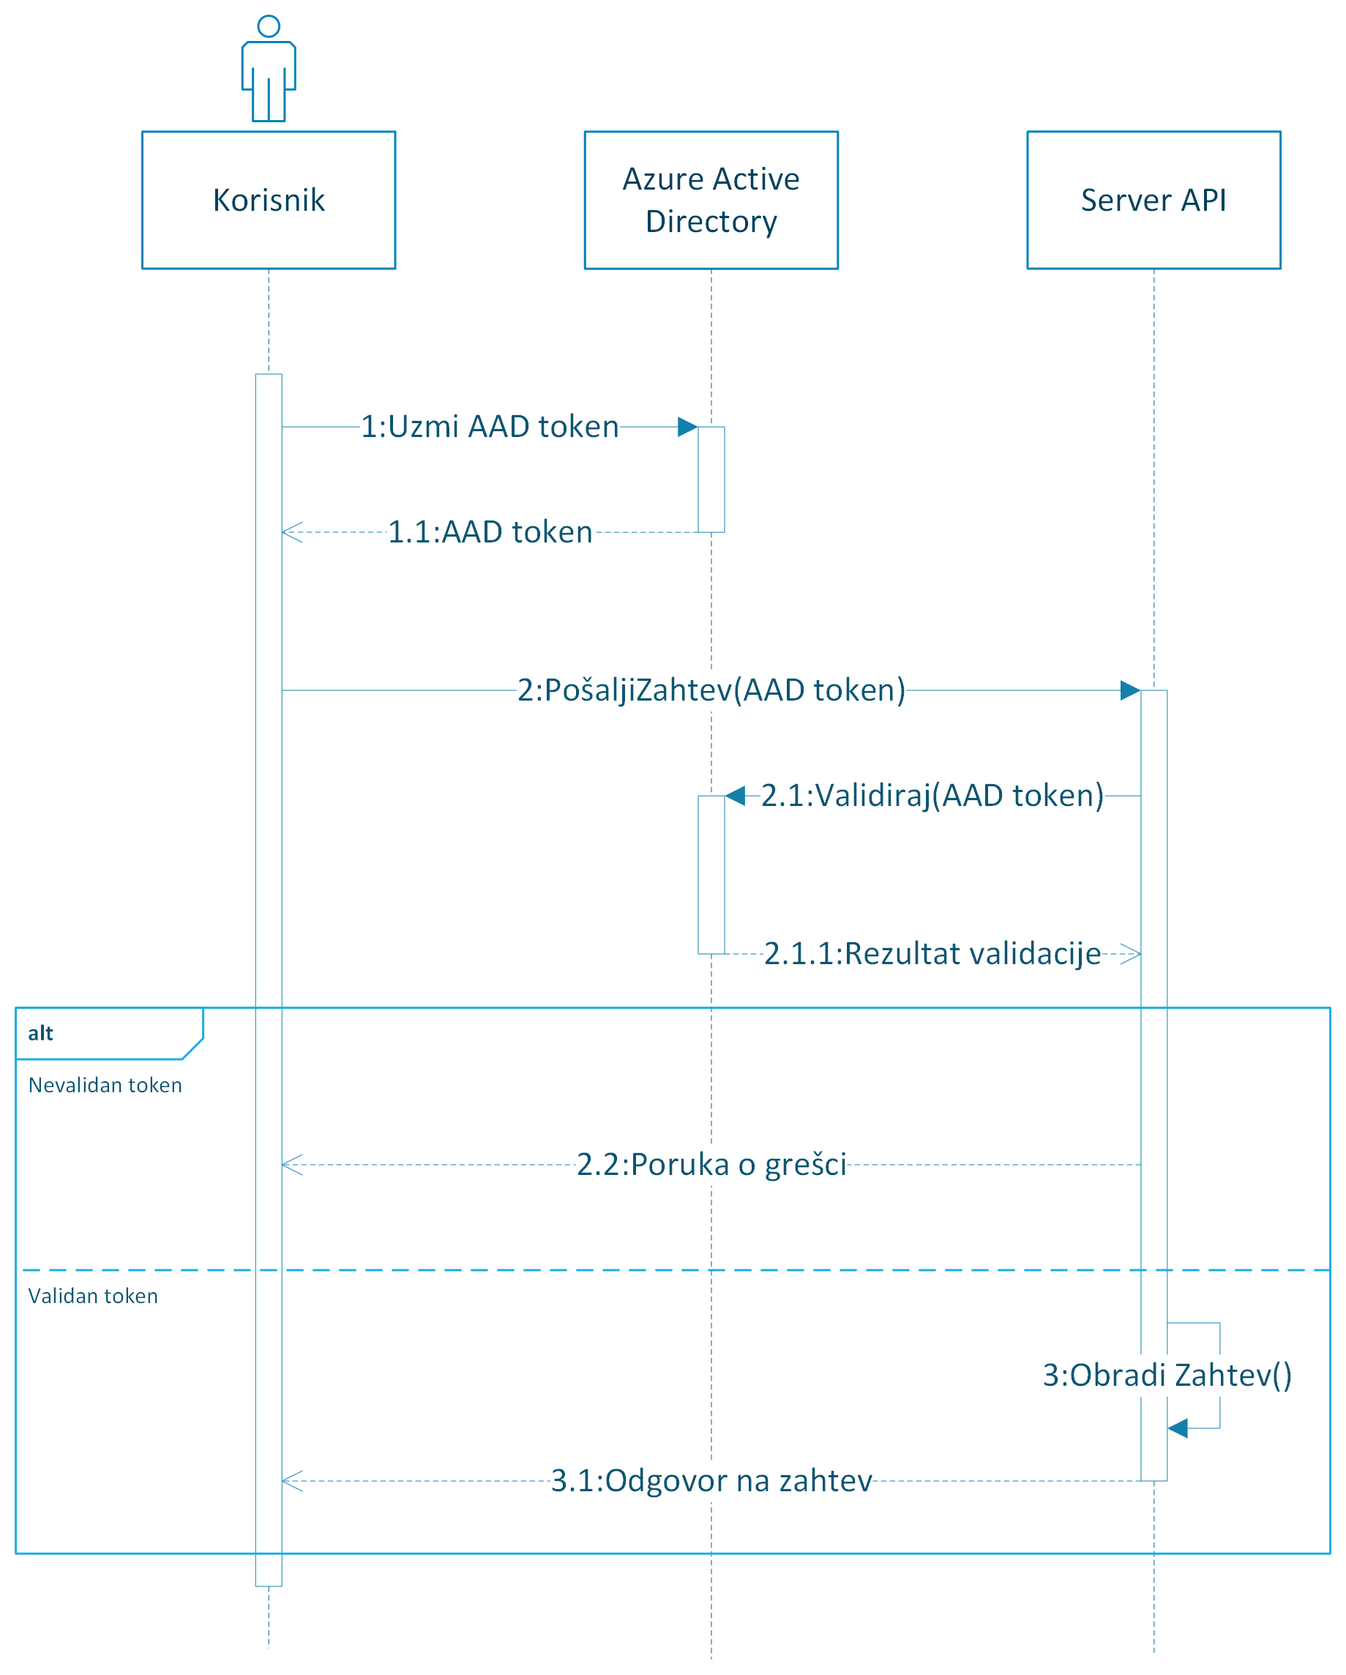
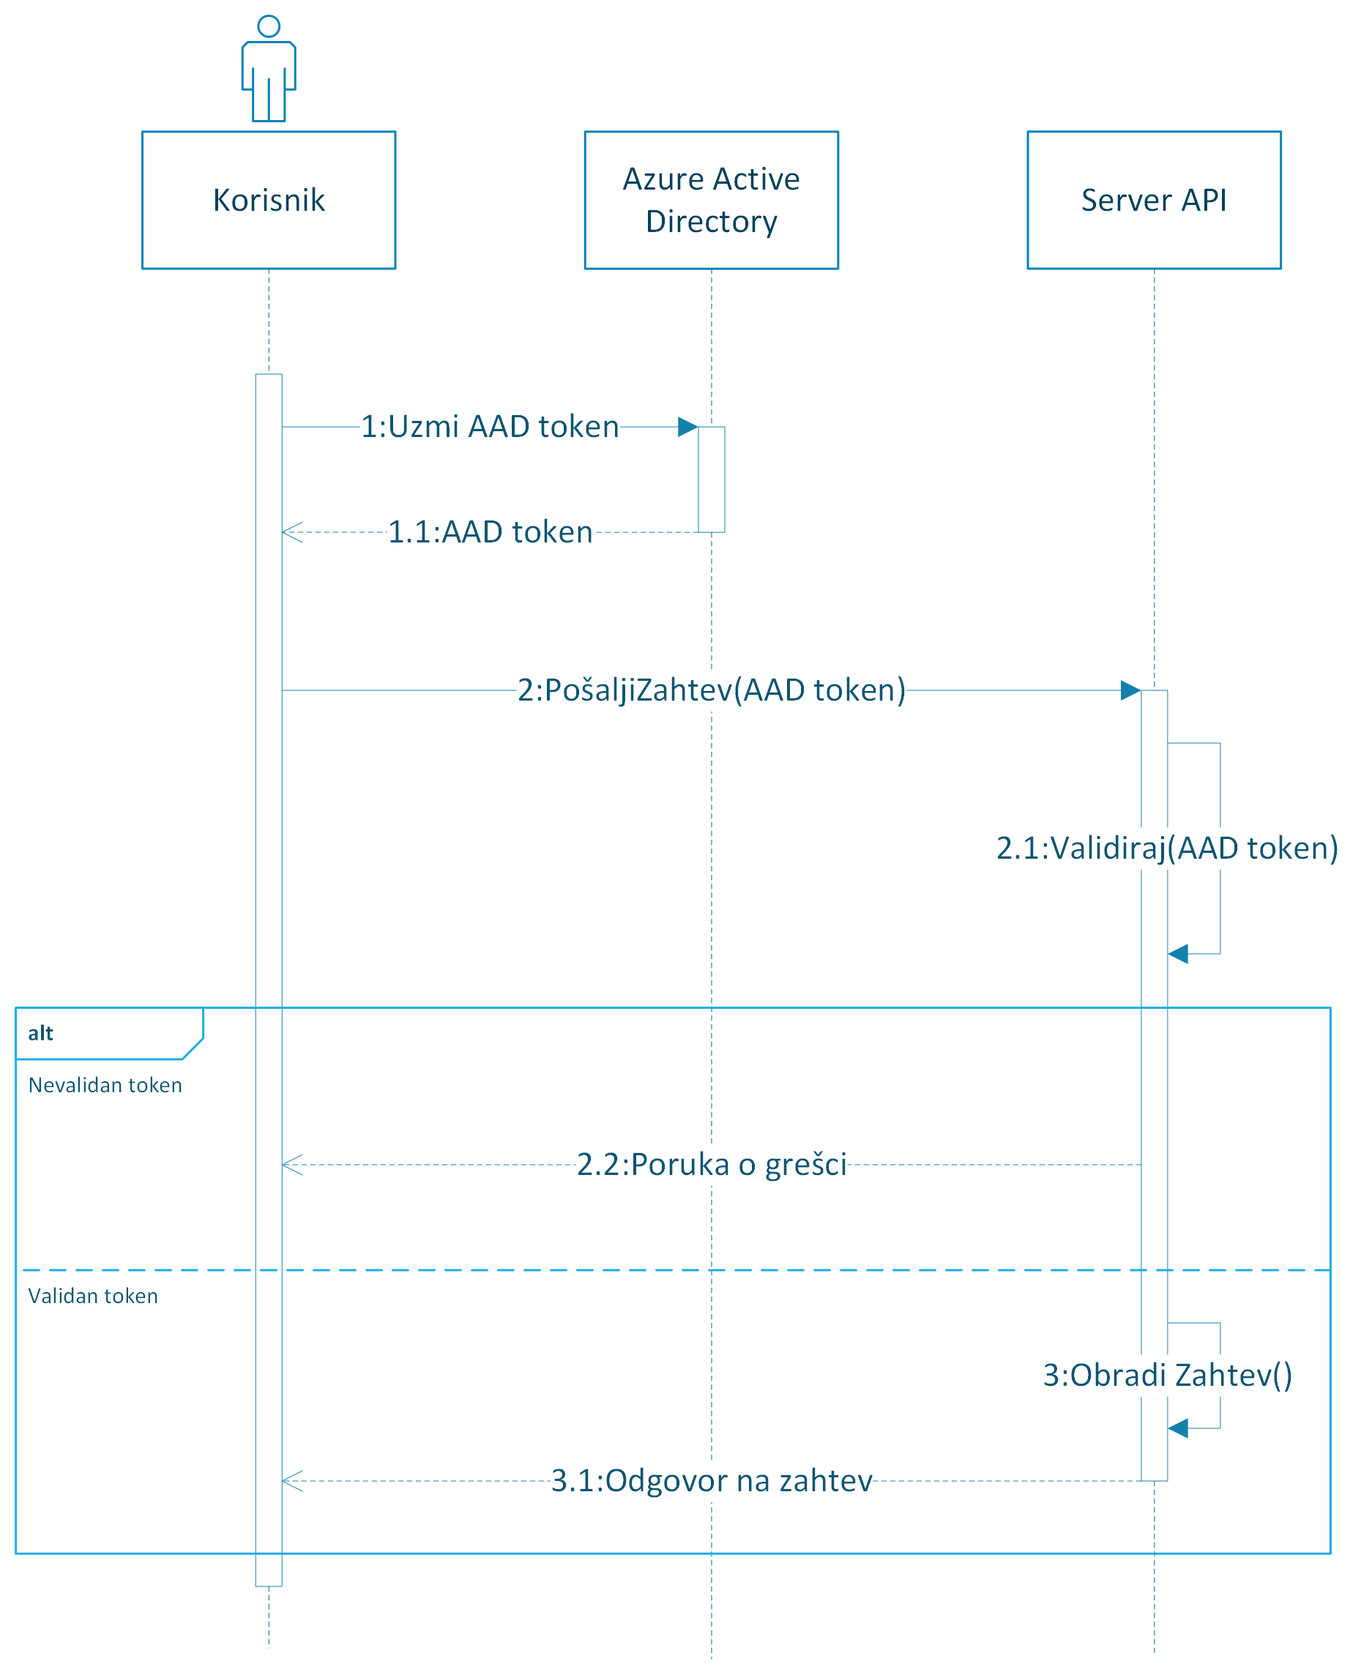
Razradjeno poglavlje sa implementacijom

diff --git a/paper/MasterRad-MilanaKovačević.tex b/paper/MasterRad-MilanaKovačević.tex
@@ -84,8 +84,8 @@ Glavna mana distribuiranih sistema je se oni oslanjaju na transport poruka kroz 
 
 Distribuirani sistemi se mogu razvrstati u zavisnosti od načina povezivanja njegovih mašina. Postoje dva tipa arhitekture:
 \begin{enumerate}
-\item Klijent-server - Klijent 
-\item Peer-to-peer - 
+\item Klijent-server - TODO
+\item Peer-to-peer - TODO
 \end{enumerate}
 
 
@@ -95,11 +95,12 @@ Distribuirani sistemi se mogu razvrstati u zavisnosti od načina povezivanja nje
 
 Količina podataka u svetu kao i broj zahteva za njegovo obrađivanje neprekidno rastu. Obrada velikih podataka su postala potreba svakodnevnice. Međutim, često zbog fizičkih ograničenja nije moguće izvršiti izračunavanje u najednoj mašini, ili, ukoliko je to moguće, ono ne zadovoljava očekivane performanse. Sistemi za distribuirano izračunavanje predstavljaju rešenje za obradu velike količine podataka i potražnja za njima raste u koraku sa globalnom količinom podataka.
 
-\section{Analiza postujićih sistema}
+\section{Analiza postojećih sistema}
+\label{sec:postojeca_resenja}
 
-Analiza postujićih sistema TODO
+Analiza postojećih sistema TODO
 
-Spark
+Spark \cite{Spark}
 
 Azure Functions pregled
 
@@ -109,9 +110,10 @@ neko rešenje u AWS?
 \section{Opis korišćenih tehnologija i alata}
 
 U ovom podpoglavlju biće opisane tehnologije i alati korišćenih prilikom programske realizacije sistema.
-Za implementaciju je korišćen programski jezik C\#, i radni okvir \emph{.NET Core 6.0}. Korišćeno razvojno okruženje je \emph{Microsoft Visual Studio Community 2022} i operativni sistem \emph{Windows 10}.
 
 \subsection{Platforma Doker}
+\label{subs:docker_platform}
+
 Za pokretanje aplikacija je korišćena platforma Doker (eng. \emph{Docker}) \cite{Docker}. Prednosti korišćenja ove platforme su monogstuke. Za početak, ona razdvaja razvijanje aplikacije od infrastrukture na kojoj će biti pokrenuta. Aplikacija je spakovana u izolovano okruženje koje se naziva kontejner (eng. \emph{container}). Kontejneri sadrže sve (a u idealnom slučaju, samo) ono što je neophodno za pokretanje aplikacije, u vidu strukture koja se naziva slika (eng. \emph{image}). To čini da su kontejneri lagani za prenošenje, za razliku od virtuelnih mašina koje u teoriji mogu pružiti istu funkcionalnost. Spakovana aplikacija može biti pokrenuta neograničeni broj puta, u različitim okruženjima: prilikom ručnog i automatskog testiranja, u produkciji, itd. Prilikom pokretanja kontejnera, može se dodatno specificirati njegova konfiguracija (na primer, mapiranje portova).
 
 Arhitektura platforme je predstavljena na slici \ref{fig:dockerarch}, preuzetoj iz zvanične dokumentacije \cite{DockerArch}. 
@@ -125,7 +127,7 @@ Arhitektura platforme je predstavljena na slici \ref{fig:dockerarch}, preuzetoj 
 
 Koraci potrebni da se napravi slika aplikacije se definišu u \emph{Dockerfile} datoteci. Svaka instrukcija u ovom fajlu kreira sloj slike (eng. \emph{layer}). U sličaju \emph{.NET Core} aplikacija, prvi korak je učitavanje željenog radnog okvira, zatim, (primera radi) pokretanje kompilacije izvornog koda i smeštanje izvršnog koda na željenu lokaciju. Krajnji korak je uglavnom definisanje komande za pokretanje aplikacije. Bitno je naglasiti da tokom razvijanja aplikacije, Doker prepoznaje koji slojevi slike koji su se promenili, te ponovo kreira samo njih i njihove naredne slojeve. Ovo čini generisanje slike efikasnom i brzom operacijom koja ne usporava programera, koji najčeće menja samo delove aplikacije. Kreirane slike se čuvaju u registru slika koji može biti lokalni ili negde u oblaku.
 
-Kontejner sadrži specifikaciju operativnog sistema na kojem se pokreće slika. Izbor radnog okvira \emph{.NET Core} omogućava pokretanje servisa na različitim platformama \emph{Windows}, \emph{Mac} i \emph{Linux}, bez izmena izvornog koda. Za izradu sistema su korišćeni \emph{Linux} kontejneri.
+Kontejner sadrži specifikaciju operativnog sistema na kojem se pokreće slika, i on može biti \emph{Windows}, \emph{Mac} i \emph{Linux}.
 
 Korišćeno okruženje za lokalno kreiranje i pokretanje kontejnera je \emph{Docker Desktop} prikazan na slici \ref{fig:dockerdesktop}.
 
@@ -138,6 +140,7 @@ Korišćeno okruženje za lokalno kreiranje i pokretanje kontejnera je \emph{Doc
 
 % Kubernetes detalji
 \subsection{Platforma Kubernetes}
+\label{subs:kubernetes_platform}
 
 Pokretanje sistema na praktičan i skalabilan način, omogućila je platforma \emph{Kubernetes} \cite{Kubernetes}. Ona pruža potrebnu infrastrukturu za pokretanje aplikacija zapakovanih u Doker kontejnere, kao i za upravljanje njima i ostalim pratećim delovima sistema.
 
@@ -210,15 +213,16 @@ kubectl autoscale deployment computenode --cpu-percent=50 --min=1 --max=10
 \end{verbatim}
 
 \subsection{Platforma \emph{Microsoft Azure}}
+\label{sub:azureplatform}
 
 Programska implementacija sistema je uključila njegovo pokretanje u oblaku, a za to je korišćena platforma \emph{Microsoft Azure} \cite{Azure}. Ova platforma pruža veliki broj softverskih i infrastrukturnih rešenja, kao i propratnih servisa i mogućnosti koje poboljšavaju celokupno iskustvo korišćenja.
 
 Najrelevantniji resursi korišćeni za pokretanje sistema u na \emph{Azure} platformi su:
 \begin{enumerate}
-\item \emph{Azure Kubernetes Service} \cite{AKS} - Resurs koji predstavlja \emph{Kubernetes} klaster.
-\item \emph{Azure SQL Database} \cite{AzureSQLDB} - Resurs koji predstavlja relacionu bazu podataka.
-\item \emph{Azure Active Directory} \cite{AAD} - Resurs koji omogućava kreiranje identiteta (npr. korisnike, grupe) i njihovo njegovo podešavanje (prava pristupa, login...).
-\item \emph{Azure Monitor} \cite{AzureMonitor} - Skup propratnih funkcionalnosti koje pružaju uvid u ponašanje Azure resursa. Sakuplja logove i metrike, daje alate za njihovo analiziranje, kao i mogućnost uzbunjivanja (eng. \emph{alerts}) i reagovanja na dešavanja od interesa. Ima podršku i za tehnike mašinskog učenja nad sakupljenim podacima. Više o integraciji sa \emph{Azure Monitor}-om se nalazu u poglavlju \ref{chp:pracenjemetrika}.
+\item \emph{Azure Kubernetes Service} (skr. AKS) \cite{AKS} - Resurs koji predstavlja \emph{Kubernetes} klaster.
+\item \emph{Azure SQL Database} (skr. AzureSQLDB) \cite{AzureSQLDB} - Resurs koji predstavlja relacionu bazu podataka.
+\item \emph{Azure Active Directory} \cite{AAD}  (skr. AAD)- Resurs koji omogućava kreiranje identiteta (npr. korisnike, grupe) i njihovo njegovo podešavanje (prava pristupa, login...).
+\item \emph{Azure Monitor} (skr. AM) \cite{AzureMonitor} - Skup propratnih funkcionalnosti koje pružaju uvid u ponašanje Azure resursa. Sakuplja logove i metrike, daje alate za njihovo analiziranje, kao i mogućnost uzbunjivanja (eng. \emph{alerts}) i reagovanja na dešavanja od interesa. Ima podršku i za tehnike mašinskog učenja nad sakupljenim podacima. Više o integraciji sa \emph{Azure Monitor}-om se nalazu u poglavlju \ref{chp:pracenjemetrika}.
 \end{enumerate}
 
 \subsection{Dodatni alati}
@@ -244,7 +248,7 @@ Glavni zadatak sistema je da omogući korisniku obradu podataka na distribuirani
 U jednostavnom slučaju, sistem obrađuje prosleđeni niz atomičnih poslova, a zatim agregira njihove rezultate. Ovo predstavlja distribuiranu implementaciju funkcionalnosti eng. \emph{map-reduce}.
 U naprednijem slučaju, sistem DCS je moguće usko specijalizovati za obradu određenog tipa posla. Tada se prilikom implementacije koristi i poznavanje prirode posla, što omogućava da se on podeli na njegove podjedinice. Krajnji rezultat se takodje dobija agregiranjem podrezultata, s tim da podjedinice posla mogu biti međusobno zavisne, te je za njegovo celokupno izvršavanje potrebno platiti plan distribuiranog izvršavanja.
 
-TODO primer nekog kompleksijeg posla
+TODO primer nekog kompleksnijeg posla
 
 Jedan od glavnih ciljeva sistema DCS je njegova modularnost i primenljivost. On je uz jednostavne izmene proširiv kako bi podržao različite tipove poslova koje su od značaja njegovim korisnicima, pritom, oslanjajući se na zajedničku infrastrukturu za izvršavanje poslova. Ova infrastruktura je opisana u narednim poglavljima.
 
@@ -435,7 +439,15 @@ Slučajevi upotrebe iz ugla klaster administratora su prikazani na slici \ref{fi
   \label{fig:slucajupotrebe_admin_klastera}
 \end{figure}
 
+% ------------------------------------------------------------------------------
 \section{Arhitektura sistema}
+% ------------------------------------------------------------------------------
+
+Sistem DCS je implementiran po uzoru na klijent-server arhitekturu.
+
+Centralni deo sistema DCS se sastoji od dva tipa aplikacija: Frontenda (skr. FE) i jedinice za izvršavanje (eng. \emph{ComputeNode}, skr. CN). 
+U sistemu postoji tačno jedna FE aplikacija, koja je zadužena za dve logički odvojene celine: primanje zahteva od korisnika i orkestriranje izvršavanja prethodno zakazanog posla.
+Sa druge strane, u zavisnosti od potreba, DCS se sastoji od jedne ili više CN aplikacije koja je zadužena za izvršavanje atomičnih (nedeljivih) poslova. CN prima zahteve za izvršavanje atomičnih poslova od FE.
 
 Arhitektura sistema je prikazana na slici \ref{fig:arhitektura}.
 
@@ -446,30 +458,54 @@ Arhitektura sistema je prikazana na slici \ref{fig:arhitektura}.
   \label{fig:arhitektura}
 \end{figure}
 
-Arhutekturalni obrazac korišćen prilikom razvoja pojedinačnih servisa sistema (Frontenda i Jedinice za izračunavanje) je Model-Pogled-Kontroler (eng. \emph{Model-View-Controller}), bez implementacije Pogled dela. Razlog za odabir ovog obrasca je što on uvodi podelu odgovornosti različitih delova servisa. Kontroler je okrenut ka spolja, i definiše interfejs za komunikaciju sa servisom. U slučaju Frontenda, on definiše API (eng. \emph{Application Programming Interface}) koji prima korisnikove zahteve za izvršavanje posla.
+Arhutekturalni obrazac korišćen prilikom razvoja gore navedenih komponenti je u osnovi Model-Pogled-Kontroler (eng. \emph{Model-View-Controller}), s tim da nema implementaciju dela Pogled. Posmatrajući na drugi način, njihova arhitektura bi mogla da se klasifikuje kao slojevita. Bez obzira kako klasifikujemo arhitekturu sistema, ona jasno uvodi podelu odgovornosti različitih delova servisa.
+
+Prvi sloj aplikacija predstavlja REST API (eng. \emph{Application Programming Interface}) imlementiran u okviru kontrolera. Ovaj sloj aplikacije je okrenut ka spolja i definiše interfejs za komunikaciju sa servisom. U slučaju FE je to API preko kog prima korisnikove zahteve za izvršavanje posla, a u slučaju CN je to API preko kojeg on prima zahteve od FE. Drugi sloj aplikacija predstavlja njihov centralni deo sa glavnom logikom. Treći sloj aplikacija predstavlja njenu integraciju sa bazom podataka. U inicijalnoj verziji servisa, samo FE ima direktnu komunikaciju sa bazom.
 
 
 % ------------------------------------------------------------------------------
 \section{Implementacija}
 % ------------------------------------------------------------------------------
 
-U ovom poglavlju biće opisana implementacija sistema (eng. \emph{Distributed Computation System}).
-Projekat je javno dostupan na servisu GitHub na adresi \href{https://github.com/milana-kovacevic/DistributedComputationSystem}{https://github.com/milana-kovacevic/DistributedComputationSystem}. Na adresi se takođe nalaze datoteke potrebne za kreiranje i konfiguraciju servisa pokrenutih u okviru Kubernetes klastera, kao i pomoćne skripte koje automatizuju proces postavljanja nove verzije aplikacija na klaster.
+U ovom poglavlju biće opisana implementacija sistema DCS.
 
+Projekat je javno dostupan na servisu GitHub na adresi \href{https://github.com/milana-kovacevic/DistributedComputationSystem}{https://github.com/milana-kovacevic/Distributed}\label{githubdsc}. Za implementaciju je korišćen programski jezik C\#, i radni okvir \emph{.NET Core 6.0}. Korišćeno razvojno okruženje je \emph{Microsoft Visual Studio Community 2022} i operativni sistem \emph{Windows 10}.
 
-\subsection{Autentifikacija}
+Glavna logika distribuiranog izvršavanja nalazi se u okviru aplikacije Frontend. Jedinice za izvršavanje su jednostavni servisi koji imaju jasan cilj koji podrazumeva izvršavanje atomičnog posla i vraćanje rezultata izvršavanja. U nastavku, razrađuje se implementacija FE komponente (ukoliko nije naglašeno drugačije).
 
-Proces autentikacije je prikazan na slici \ref{fig:autentifikacija}.
+Detaljnija zaduženja FE komponente su, redom:
+\begin{enumerate}
+\item Autentifikacija klijenta,
+\item Primanje i validacija zahteva,
+\item \label{podela_planiranje}Podela zahteva na podposlove i pravljenje plana izvršavanja,
+\item \label{orkestriranje}Orkestiranje izvršavanja podposlova i agregacija (pod)rezultata,
+\item \label{cuvanje_u_bazi}Čuvanje rezultata u bazi (ili nekom drugom skladištu).
+\end{enumerate}
+
+Kada je FE primio i evidentirao zahtev za izvršavanje posla, on ubacuje posao u red za izvršavanje. U slučaju da je sistem zauzet obradom drugih poslova, novi zahtev će čekati dok sistem ne postane spreman da ga obradi. Sporedna nit aplikacije uzima poslove iz reda i šalje ga na dalju obradu jedan po jedan komponenti koja se naziva Distriburiani orkestrator (skr. DO). Za implementaciju reda za čekanje, korišćeno je postojeće rešenje bezbedno u radu sa nitima \emph{BlockingCollection} \cite{BlockingCollection}.
+
+Moguća stanja kroz koja prolazi posao su prikazana na slici \ref{fig:stanjaposla}.
 
 \begin{figure}[!ht]
   \centering
-  \includegraphics[width=1.0\textwidth]{./images/autentikacija_uml_dijagram_sekvence.png}
-  \caption{UML dijagram sekvence - Autentifikacija}
-  \label{fig:autentifikacija}
+  \includegraphics[width=1.0\textwidth]{./images/dijagram_stanja_posao.png}
+  \caption{UML dijagram stanja - Posao}
+  \label{fig:stanjaposla}
 \end{figure}
 
+Navedena zaduženja \ref{podela_planiranje} i \ref{orkestriranje} uključuju glavni deo logike distribuiranog izvršavanja. U slučaju da korisnikov zahtev već sadrži niz atomičnih poslova, podelu početnog zahteva nije potrebno raditi. Plan izvršavanja zavisi od tipa posla, a u slučaju \emph{map-reduce} funkcionalnosti porazumeva da je svaki atomični posao nezavisno obrađuje (funkcijom \emph{map}), a krajnje rešenje se dobija predefinisanon agregacijom atomičnih rezultata (funkcijom \emph{reduce}). Prva verzija sistema DSC implementira \emph{map-reduce} funkcionalnost u kojom računa ukupan zbir cifara brojeva niza, gde svaki broj predstavlja jedan ulazni podatak za atomični posao. U naprednoj verziji sistema, plan bi bio predstavljan u vidu stabla u kojem listovi predstavljaju početne atomične poslove, unutrašnji čvorovi agregacije, a grane prenos međurezultata kroz mrežu. Ovakve planove koriste sistemi poput Sparka \cite{Spark} predstavljeni u uvodu \ref{sec:postojeca_resenja} .
+
+Na osnovu plana izvršavanja, komponenta DO sprovodi dalje izvršavanje posla: šalje atomične poslove preko mreže do CN na izvršavanje. Zakazivanje atomičnih poslova se dešava asinhrono i ono ne blokira DO da obraduje naredni posao. Dobijeni rezultati se šalju odvojenoj komponenti koja zna da agregara rezultate (u zavisnosti od kompleksnosti agregacije, i onda bi mogla da se prosledi CN na izračunavanje) na osnovu plana izvršavanja.
+
+DO dodatno prati uspešnost izvršavanja poslova i u slučaju uspešnog završetka poslova upisuje rezultat u bazu. Ukoliko dođe do nepoznate greške prilikom izvršavanja posla, nekoliko puta će pokušati ponovo da izvrši posao. Logika koja ponovo pokreće poslove je potrebna kako bi se povećao stepen pouzdanosti tokom izvršavanja poslova, u slučaju da se na primer jedna od CN aplikacija restartuje. Ukoliko i nakon toga dođe do greške, posao se završava i kao krajnji rezultat se upisuje greška.
+
+Klijent ima mogućnost da otkaže aktivan posao. Ova operacija uključuje i otkazivanje svih njegovih podposlova koji su u procesu izvršavanja ili koji čekaju na izvršavanje, te se ukupno otkazivanje dešava globalno u celom sistemu. Otkazivanje zakazanih poslova nije podržano u inicijalnoj verziji.
+
+TODO dijagram klasa DO
 
 \subsection{Baza}
+
+Sistem DSC koristi bazu za evidentiranje poslova, ažuriranje stanja u kojem se nalazi posao (kako bi korisnik mogao da prati šta se dešava u sistemu), kao i za čuvanje rezultata i međurezultata poslova. Ukoliko su ulazni podaci ili rezultat veliki, te ih nije moguće čuvati u bazi, DCS je moguće proštiriti kako bi koristio neko drugo skladište za pristup ulaznim podacima i za čuvanje rezultata.
 
 ER (eng. \emph{Entity-Relation}) dijagram modela posla je prikazanan na slici \ref{fig:erposao}.
 
@@ -481,27 +517,39 @@ ER (eng. \emph{Entity-Relation}) dijagram modela posla je prikazanan na slici \r
 \end{figure}
 
 
+\subsection{Autentifikacija}
 
-\subsection{Proces izvršavanja posla}
-Stanja kroz koja prolazi posao su pikazana na slici \ref{fig:stanjaposla}.
+Za autentifikaciju klijenta je korišćen servis AAD \cite{AAD} opisan u uvodnom poglavlju u sekciji \ref{sub:azureplatform}. Korisniku su dodeljena prava korišćenja servisa time što je njegov identitet član grupe korisnika definisane u okviru servisa AAD.
+
+Proces autentikacije je prikazan na slici \ref{fig:autentifikacija}. Korisnik pre kontaktiranja sistema DSC šalje zahtev servisu AAD kako bi preuzeo token za autentifikaciju. Ovaj token ima rok trajanja (uobičajeno je 60 minuta) i specifičan je za autentifikaciju na DSC sistem. Kada klijent ima token, prosleđuje ga u HEADER delu HTTP zahteva u polju za autentifikaciju. Sistem DCS prima zahtev i pre nego što počne da ga obrađuje, izvrši validaciju AAD tokena. Token sadrži otisak (eng. \emph{thumbprint}) koji garantuje njegovu validnost. Ukoliko je token validan, nastavlja se sa obradom zahteva, a ukoliko nije, korisnikov zahtev se odbija uz odgovarajuću grešku.
+
+Za bezbednu komunikaciju u produkcionom okruženju, forsiran je protokol HTTPS.
 
 \begin{figure}[!ht]
   \centering
-  \includegraphics[width=1.0\textwidth]{./images/dijagram_stanja_posao.png}
-  \caption{UML dijagram stanja - Posao}
-  \label{fig:stanjaposla}
+  \includegraphics[width=1.0\textwidth]{./images/autentikacija_uml_dijagram_sekvence.png}
+  \caption{UML dijagram sekvence - Autentifikacija}
+  \label{fig:autentifikacija}
 \end{figure}
 
 
-\subsection{Distribuiranje atomičnih jedinica posla}
+\section{Pokretanje u oblaku}
 TODO
 
-\subsection{Pokretanje u oblaku}
-TODO
+Opisana implementacija dobija smisao i punu moć pokretanjem sistema DCS na klasteru Kubernetes predstavljenom u uvodu u delu \ref{subs:kubernetes_platform}. Komponente Frontend i Compute Node se pokreću u okviru kontejnera Doker (uvodni deo, sekcija \label{subs:docker_platform}). Izbor radnog okvira \emph{.NET Core} omogućava pokretanje servisa na različitim platformama \emph{Windows}, \emph{Mac} i \emph{Linux}, bez izmena izvornog koda. Za izradu sistema su korišćeni \emph{Linux} kontejneri Doker.
 
-\subsubsection{Integracija sa platofrmom emph{Microsoft Azure}}
+Za pokretanje sistema DCS u oblaku je korišćena platforma \emph{Microsoft Azure} \cite{Azure}. Za upravljanje i pristup resursima u okviru ove platforme koristi se portal \emph{Azure} \cite{AzurePortal}.
 
-U realizaciji je korišćena platforma \emph{Microsoft Azure} \cite{Azure}. Za upravljanje i pristup resursima u okviru ove platforme koristi se portal \emph{Azure} \cite{AzurePortal}.
+TODO još detalja o setapu
+
+yaml primer
+objasnjenje load balansinga ka CN
+prikaz mahuna iz portala ili kubectl klijenta
+DNS / https / ingress setup
+
+
+Na adresi projekta na sevisu GitHub \ref{githubdsc} se nalaze datoteke potrebne za kreiranje i konfiguraciju servisa pokrenutih u okviru Kubernetes klastera, kao i pomoćne skripte koje automatizuju proces postavljanja nove verzije aplikacija na klaster.
+
 
 % ------------------------------------------------------------------------------
 \section{Testiranje}
